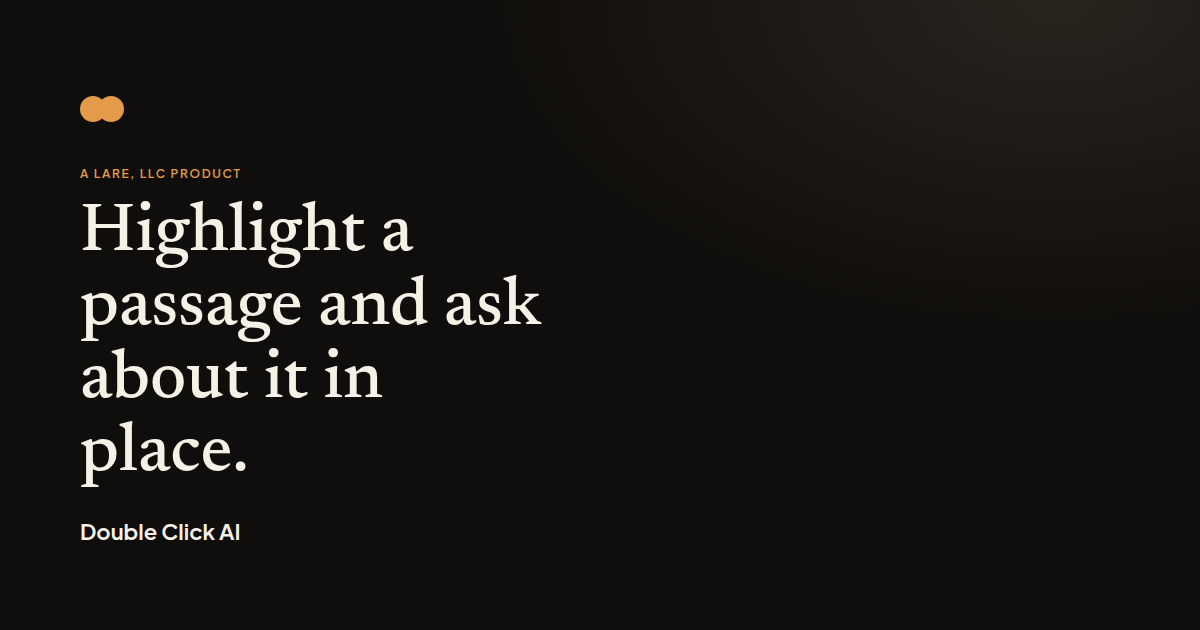
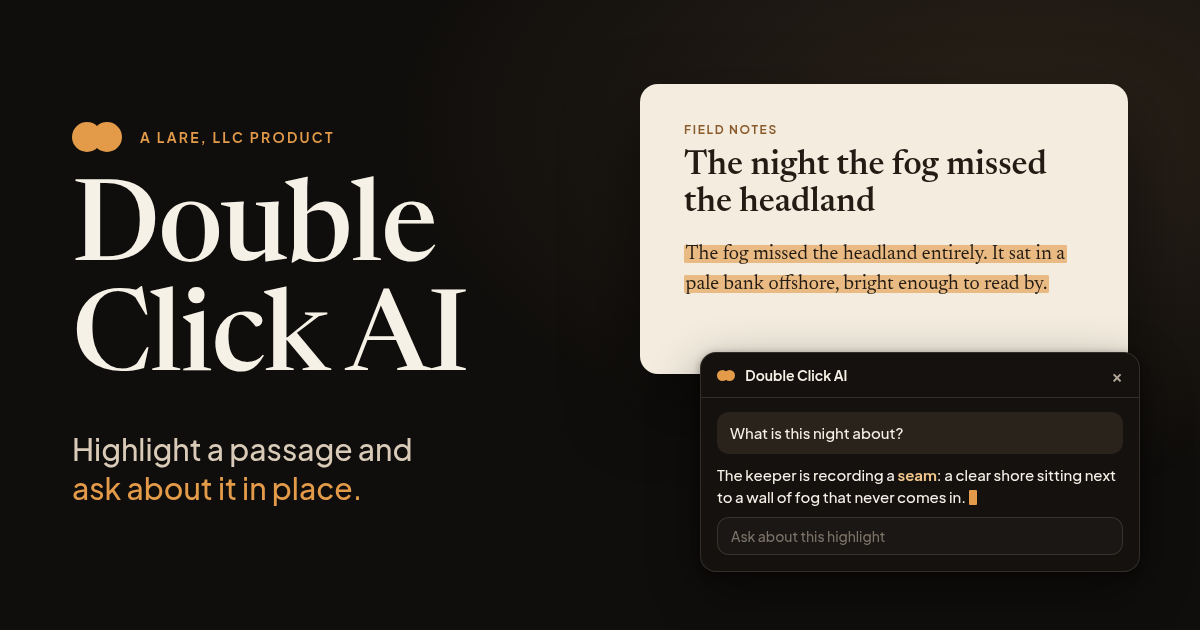
Use Lonny's chosen Open Graph image.
Replace site/public/og.png with the selected 1200x630 card and describe the name, hero line, highlighted passage, and chat popup in the image alt text.

diff --git a/site/public/index.html b/site/public/index.html
@@ -14,12 +14,12 @@
   <meta property="og:image" content="https://dcai.larehq.com/og.png">
   <meta property="og:image:width" content="1200">
   <meta property="og:image:height" content="630">
-  <meta property="og:image:alt" content="Double Click AI. Highlight a passage and ask about it in place. A LARE, LLC product.">
+  <meta property="og:image:alt" content="Double Click AI. Highlight a passage and ask about it in place, with a highlighted passage and the chat popup. A LARE, LLC product.">
   <meta name="twitter:card" content="summary_large_image">
   <meta name="twitter:title" content="Double Click AI — Highlight a passage and ask about it in place">
   <meta name="twitter:description" content="Double Click AI is a Chrome extension from LARE, LLC. Select text, ask a question, and keep the thread. Replies come from the official AI command-line tools you already sign into. No API keys.">
   <meta name="twitter:image" content="https://dcai.larehq.com/og.png">
-  <meta name="twitter:image:alt" content="Double Click AI. Highlight a passage and ask about it in place. A LARE, LLC product.">
+  <meta name="twitter:image:alt" content="Double Click AI. Highlight a passage and ask about it in place, with a highlighted passage and the chat popup. A LARE, LLC product.">
   <link rel="icon" href="favicon.svg" type="image/svg+xml">
   <link rel="icon" href="favicon-32.png" sizes="32x32" type="image/png">
   <link rel="apple-touch-icon" href="apple-touch-icon.png">

diff --git a/site/public/privacy.html b/site/public/privacy.html
@@ -14,7 +14,7 @@
   <meta property="og:image" content="https://dcai.larehq.com/og.png">
   <meta property="og:image:width" content="1200">
   <meta property="og:image:height" content="630">
-  <meta property="og:image:alt" content="Double Click AI. Highlight a passage and ask about it in place. A LARE, LLC product.">
+  <meta property="og:image:alt" content="Double Click AI. Highlight a passage and ask about it in place, with a highlighted passage and the chat popup. A LARE, LLC product.">
   <meta name="twitter:card" content="summary_large_image">
   <meta name="twitter:title" content="Privacy policy — Double Click AI">
   <meta name="twitter:description" content="What Double Click AI sends, what stays on your computer, and who operates it. A LARE, LLC product.">
